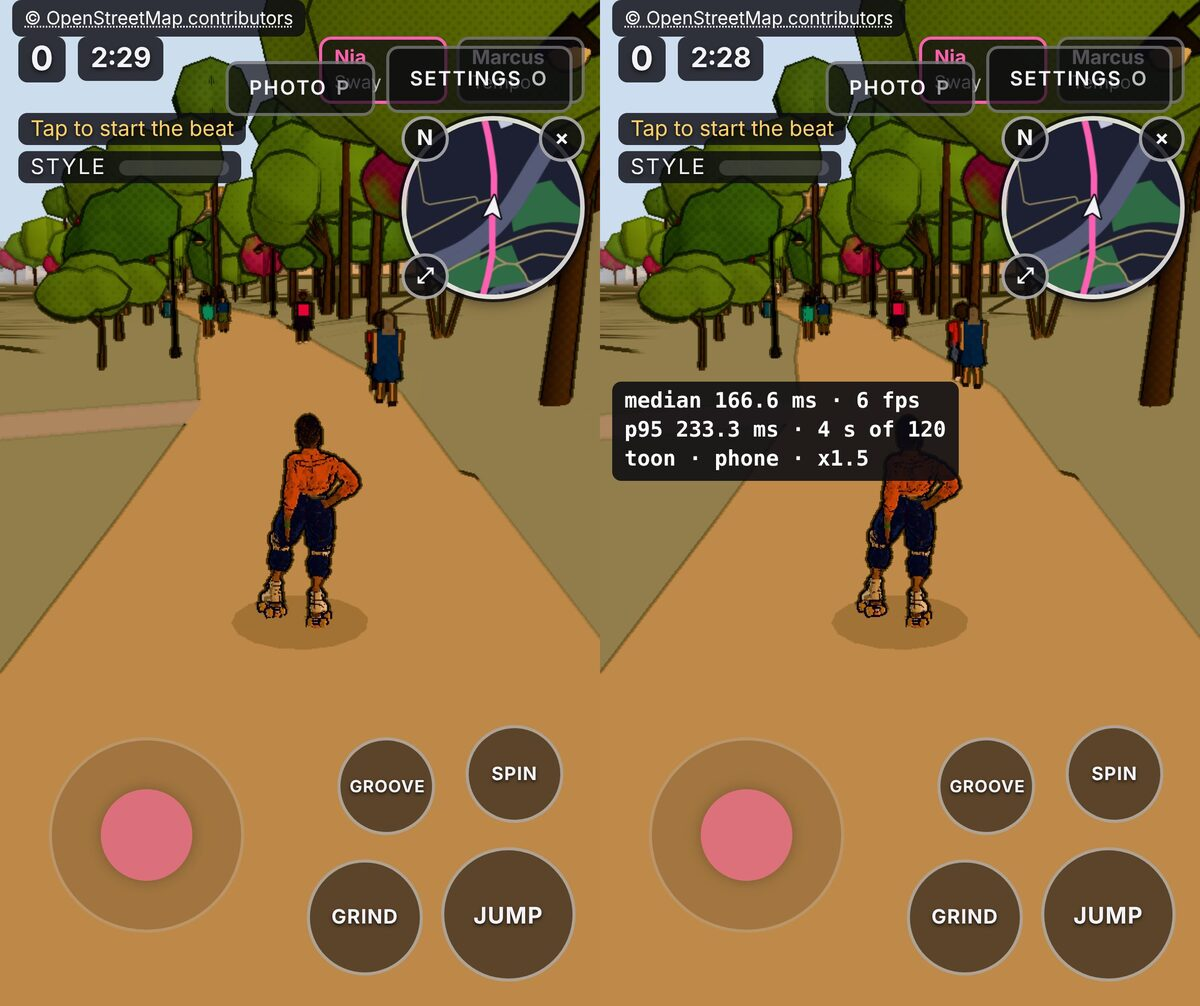
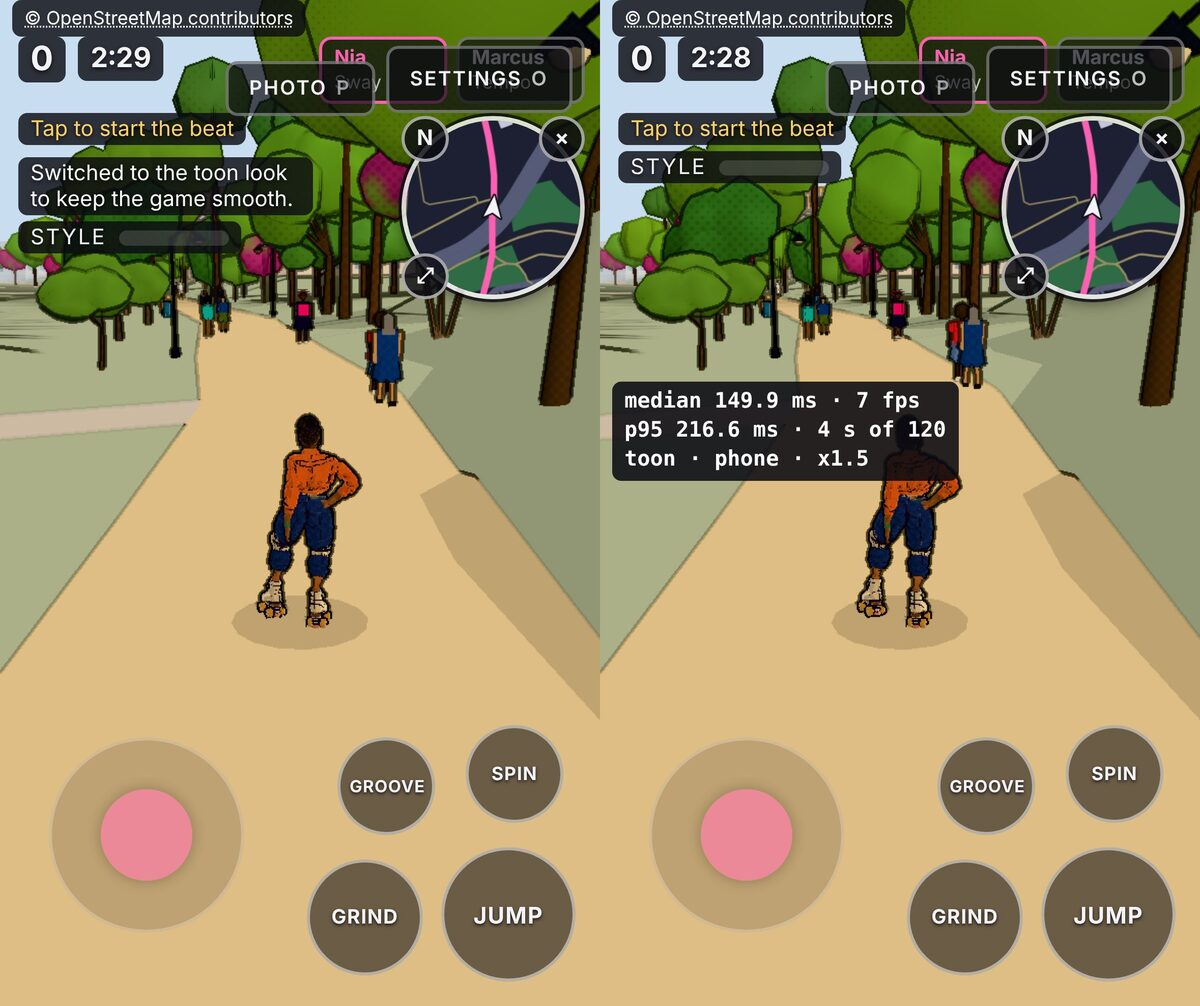
E2E: pbr lite screenshots at two cameras, the governor step to toon, the ?fps=1 readout (#246)
Claude-Session: https://claude.ai/code/session_015iEKvyVZHjd8VpAQoQ5dMC

diff --git a/e2e/pbr-lite.spec.js b/e2e/pbr-lite.spec.js
@@ -1,0 +1,155 @@
+import { expect, test, devices } from "@playwright/test";
+
+// Pbr lite (#246): the pbr look on the phone tier, the governor step from
+// pbr lite down to the toon look, and the frame-time readout (?fps=1).
+// Headless Chromium renders with SwiftShader, which auto-selects the low
+// tier, so these tests ask for the tier with ?quality.
+
+const { defaultBrowserType, ...iphone } = devices["iPhone 15"]; // eslint-disable-line no-unused-vars
+
+// The same cameras as scripts/phone-look-lib.mjs PHONE_CAMS.
+const CAMS = {
+  spawn: "312,2,-175,334,3,-80",
+  krog: "-150,2,780,-70,5,850",
+};
+
+function collectErrors(page) {
+  const errors = [];
+  page.on("pageerror", (err) => errors.push(String(err)));
+  page.on("console", (msg) => {
+    if (msg.type() === "error") errors.push(msg.text());
+  });
+  return errors;
+}
+
+async function settled(page, query) {
+  await page.goto(`/?level=beltline-eastside&mute=1&npcseed=1&${query}`);
+  await page.waitForFunction(() => window.__atl && window.__atl.ready && window.__atl.frames > 2, null, { timeout: 240000 });
+  // The late loads: the prop batch (trees), the murals, the ground maps.
+  await page.waitForFunction(() => window.__atl.level.props?.loaded || window.__atl.level.props?.error, null, { timeout: 240000 });
+  await page.waitForLoadState("networkidle", { timeout: 120000 }).catch(() => {});
+  const frames = await page.evaluate(() => window.__atl.frames);
+  await page.waitForFunction((f) => window.__atl.frames >= f + 3, frames, { timeout: 240000 });
+}
+
+test.describe("pbr lite", () => {
+  test.use(iphone);
+  test.setTimeout(900000);
+
+  for (const [name, cam] of Object.entries(CAMS)) {
+    test(`toon, full pbr and pbr lite at the ${name} camera`, async ({ page }) => {
+      const errors = collectErrors(page);
+      const fixed = `view=fixed&cam=${cam}&wind=0&time=14&weather=clear&governor=0`;
+
+      await settled(page, `quality=phone&look=toon&${fixed}`);
+      expect(await page.evaluate(() => window.__atl.render)).toMatchObject({ look: "toon", lite: false });
+      await page.screenshot({ path: `e2e/__screenshots__/pbr-lite-${name}-toon-phone.jpg`, type: "jpeg", quality: 80 });
+
+      await settled(page, `quality=high&look=pbr&${fixed}`);
+      const full = await page.evaluate(() => ({ render: window.__atl.render, lite: window.__atl.pbrLite }));
+      // The high tier's pbr look is not pbr lite.
+      expect(full.render).toMatchObject({ quality: "high", look: "pbr", lite: false, post: "full" });
+      expect(full.lite).toBe(null);
+      await page.screenshot({ path: `e2e/__screenshots__/pbr-lite-${name}-pbr-high.jpg`, type: "jpeg", quality: 80 });
+
+      await settled(page, `quality=phone&look=pbr&${fixed}`);
+      const lite = await page.evaluate(() => {
+        const a = window.__atl;
+        const mural = a.textureMemory.top.concat([]).find((t) => /mural/.test(t.name));
+        return { render: a.render, lite: a.pbrLite, grade: Boolean(a.post?.grade), ink: Boolean(a.post?.ink), env: Boolean(a.scene.environment), trees: a.trees, mural, kinds: a.level.props.kinds };
+      });
+      expect(lite.render).toMatchObject({ quality: "phone", look: "pbr", lite: true, post: "lite", pixelRatio: 1.5 });
+      expect(lite.lite).toMatchObject({ leafCards: 6, muralSize: 1024 });
+      // What makes it read as pbr stays: the grade pass (no toon ink), the sky light.
+      expect(lite.grade).toBe(true);
+      expect(lite.ink).toBe(false);
+      expect(lite.env).toBe(true);
+      // The cuts: no Blender trees (so no impostor bake), the baked leaf cut
+      // on the thin card shell, and the 1024 px mural atlas.
+      expect(lite.trees.impostorKinds).toBe(0);
+      expect(lite.trees.leafCut).toBe("baked");
+      if (lite.mural) expect(lite.mural.width).toBeLessThanOrEqual(1024);
+      await page.screenshot({ path: `e2e/__screenshots__/pbr-lite-${name}-pbr-lite-phone.jpg`, type: "jpeg", quality: 80 });
+      expect(errors, `console errors: ${errors.join(" | ")}`).toEqual([]);
+    });
+  }
+
+  test("the governor steps from pbr lite down to toon and tells the player once", async ({ page }) => {
+    const errors = collectErrors(page);
+    // A 1 ms budget: every frame is over it, and no pixel ratio can reach
+    // it, so the governor must go to the last rung, the toon look.
+    // ?noticems: the line stays 8 s in the game; a screenshot takes longer than
+    // that with the software GPU, so the test keeps the line for 40 s.
+    await page.goto("/?level=beltline-eastside&mute=1&quality=phone&look=pbr&govbudget=1&noticems=40000");
+    await page.waitForFunction(() => window.__atl && window.__atl.ready, null, { timeout: 240000 });
+    const before = await page.evaluate(() => window.__atl.render);
+    expect(before).toMatchObject({ look: "pbr", lite: true, rung: 0 });
+    expect(before.ladder.at(-1)).toMatchObject({ look: "toon" });
+    expect(before.ladder.slice(0, -1).every((r) => r.look === "pbr" && r.post === "lite")).toBe(true);
+
+    // The step is a reload into the toon look.
+    await page.waitForURL(/look=toon/, { timeout: 300000 });
+    await page.waitForFunction(() => window.__atl && window.__atl.ready && window.__atl.frames > 0, null, { timeout: 240000 });
+    const after = await page.evaluate(() => window.__atl.render);
+    expect(after).toMatchObject({ quality: "phone", look: "toon", lite: false });
+    // One short, plain HUD line.
+    const notice = page.locator("#hud-notice");
+    await expect(notice).toBeVisible();
+    await expect(notice).toHaveText("Switched to the toon look to keep the game smooth.");
+    await page.screenshot({ path: "e2e/__screenshots__/pbr-lite-step-down-notice.jpg", type: "jpeg", quality: 80 });
+    // The line goes away by itself.
+    await expect(notice).toBeHidden({ timeout: 60000 });
+    // The flag is gone from the address, so a refresh does not tell it again.
+    expect(new URL(page.url()).searchParams.has("lookdown")).toBe(false);
+    expect(new URL(page.url()).searchParams.get("look")).toBe("toon");
+    await page.reload();
+    await page.waitForFunction(() => window.__atl && window.__atl.ready && window.__atl.frames > 0, null, { timeout: 240000 });
+    await expect(page.locator("#hud-notice")).toBeHidden();
+    expect(await page.evaluate(() => window.__atl.look)).toBe("toon");
+    expect(errors, `console errors: ${errors.join(" | ")}`).toEqual([]);
+  });
+
+  test("a saved pbr choice goes to toon on the step, so the next visit starts in toon", async ({ page }) => {
+    await page.goto("/?level=beltline-eastside&mute=1&quality=phone&governor=0");
+    await page.waitForFunction(() => window.__atl && window.__atl.ready, null, { timeout: 240000 });
+    await page.evaluate(() => localStorage.setItem("atl.settings.v1", JSON.stringify({ look: "pbr" })));
+    await page.goto("/?level=beltline-eastside&mute=1&quality=phone&govbudget=1");
+    await page.waitForFunction(() => window.__atl && window.__atl.ready, null, { timeout: 240000 });
+    expect(await page.evaluate(() => window.__atl.render)).toMatchObject({ look: "pbr", lite: true });
+    await page.waitForURL(/lookdown=1/, { timeout: 300000 });
+    await page.waitForFunction(() => window.__atl && window.__atl.ready, null, { timeout: 240000 });
+    expect(await page.evaluate(() => window.__atl.look)).toBe("toon");
+    expect(await page.evaluate(() => JSON.parse(localStorage.getItem("atl.settings.v1")).look)).toBe("toon");
+    await expect(page.locator("#hud-notice")).toBeVisible();
+    // A later visit with no flag: toon, and no line.
+    await page.goto("/?level=beltline-eastside&mute=1&quality=phone&governor=0");
+    await page.waitForFunction(() => window.__atl && window.__atl.ready && window.__atl.frames > 0, null, { timeout: 240000 });
+    expect(await page.evaluate(() => window.__atl.look)).toBe("toon");
+    await expect(page.locator("#hud-notice")).toBeHidden();
+  });
+
+  test("pbr lite stays when the frames are inside the budget", async ({ page }) => {
+    await page.goto("/?level=beltline-eastside&mute=1&quality=phone&look=pbr&govbudget=100000");
+    await page.waitForFunction(() => window.__atl && window.__atl.ready && window.__atl.frames > 0, null, { timeout: 240000 });
+    const f = await page.evaluate(() => window.__atl.frames);
+    await page.waitForFunction((n) => window.__atl.frames >= n + 20, f, { timeout: 300000 });
+    expect(await page.evaluate(() => window.__atl.render)).toMatchObject({ look: "pbr", lite: true, rung: 0, pixelRatio: 1.5, lookDown: null });
+    expect(page.url()).toContain("look=pbr");
+  });
+
+  test("?fps=1 shows the median frame time on the screen", async ({ page }) => {
+    await page.goto("/?level=beltline-eastside&mute=1&quality=phone&look=toon&fps=1&governor=0");
+    await page.waitForFunction(() => window.__atl && window.__atl.ready && window.__atl.frames > 20, null, { timeout: 240000 });
+    const readout = page.locator("#fps-readout");
+    await expect(readout).toBeVisible();
+    await expect(readout).toContainText(/median \d+\.\d ms · \d+ fps\s+p95 \d+\.\d ms · \d+ s of 120/, { timeout: 30000 });
+    await expect(readout).toContainText("toon · phone · x1.5");
+    const stats = await page.evaluate(() => window.__atl.frameReadout);
+    expect(stats.medianMs).toBeGreaterThan(0);
+    await page.screenshot({ path: "e2e/__screenshots__/pbr-lite-fps-readout.jpg", type: "jpeg", quality: 80 });
+    // Without the flag there is no readout.
+    await page.goto("/?level=beltline-eastside&mute=1&quality=phone&look=toon&governor=0");
+    await page.waitForFunction(() => window.__atl && window.__atl.ready, null, { timeout: 240000 });
+    await expect(page.locator("#fps-readout")).toHaveCount(0);
+  });
+});

diff --git a/production/session-state/active.md b/production/session-state/active.md
@@ -18,6 +18,8 @@ Branch `claude/246-pbr-lite-phone` from `epic/city-look`; no PR yet (the owner a
 | Governor step to toon | `src/render/governor.js`, `src/render/look-down.js`, `src/ui/hud.js` | Vitest; Playwright: a 1 ms budget reloads pbr lite into toon and shows the HUD line once |
 | Frame-time readout | `?fps=1`, `src/perf/frame-readout.js` | Vitest; Playwright screenshot |
 
+#246 tests, cloud container: `npm test` 1587 of 1589 pass (the 2 failures are the known 5 s timeouts in `facade-kit.test.js` and `geo-mesh.test.js`). Playwright `pbr-lite`, `phone-tier`, `settings`, `late-load`, `leaf-cut`: 18 pass (the 5 `ground-pbr` tests skip themselves). The full e2e suite did not run. On the phone tier, `leaf-cut.spec.js` with `look=pbr` now draws the pbr lite trees.
+
 #246 NOT verified: the frame time on a real phone. This machine has no GPU; every frame time is SwiftShader and only compares looks. The #246 acceptance (a real mid-range phone under the #24 target) is open; the owner's steps are at the end of `docs/perf/246/README.md`. No person looked at pbr lite on a phone screen. Not done: 512 px textures for the Meshy people. The audit file `mobile-pbr/FINDINGS.md` is not on this branch.
 
 ## #107 animation code, 2026-11-06
